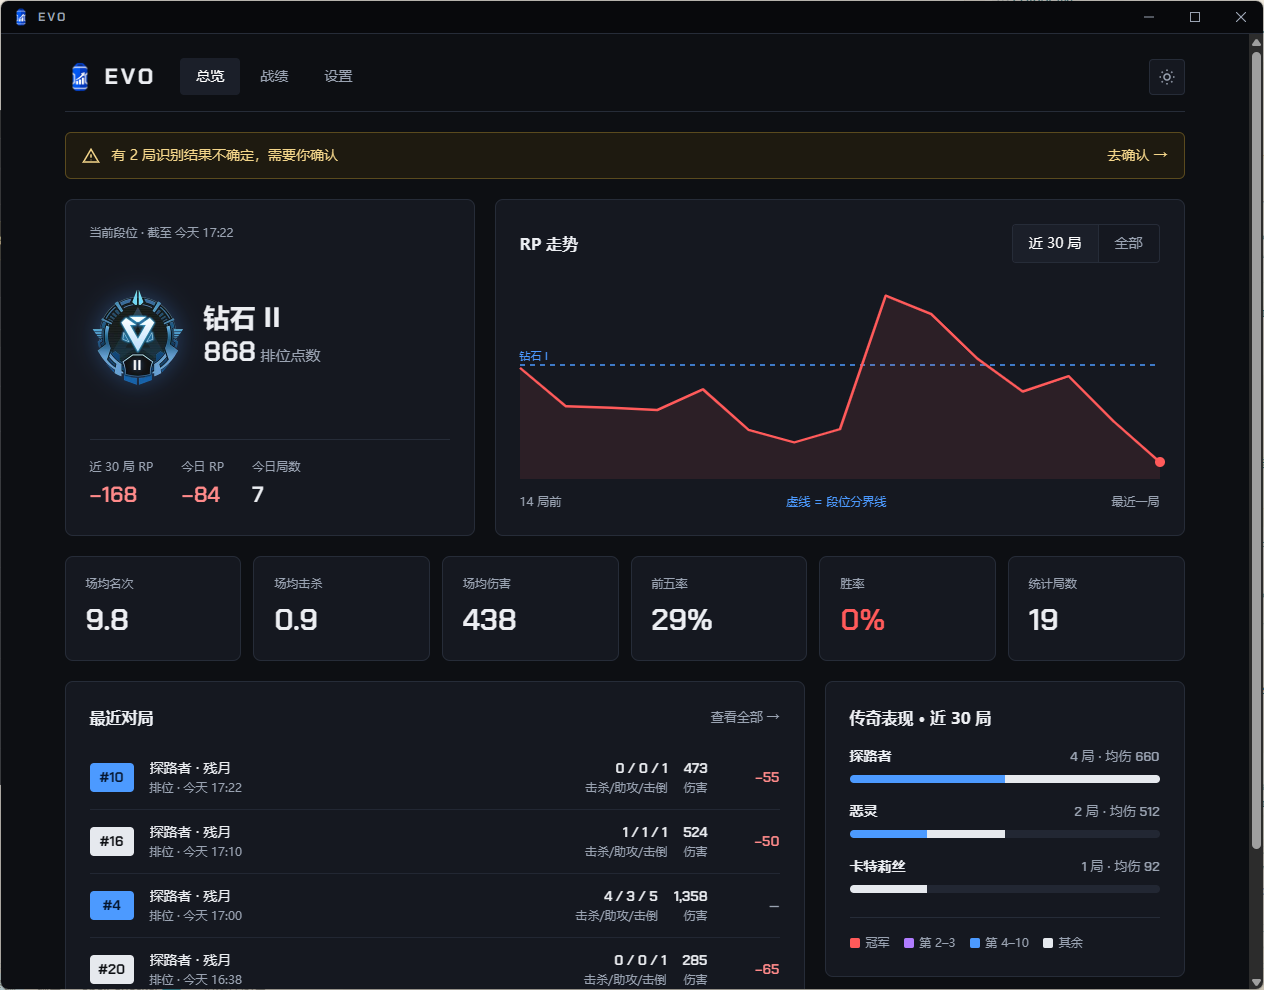
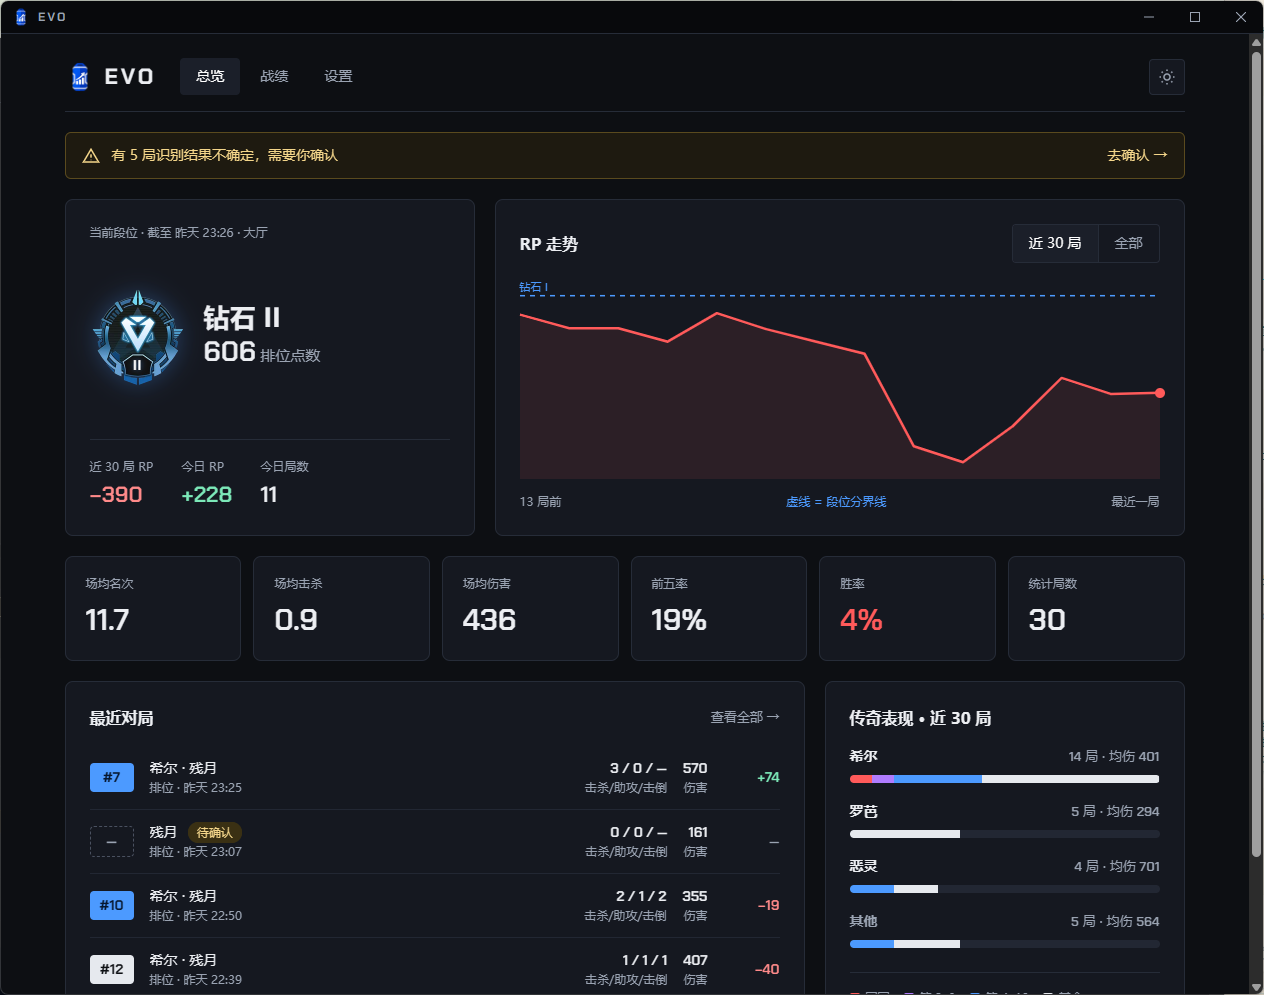
发布 0.3.1：版本号、更新内容、使用说明、隐私政策、README（截图识别完就删、大厅段位、队友传奇、老板分）
README 的总览截图换成用户新截的（0.3.x 的界面）。site/privacy.html 在本机同样改了，发布时随官网一起上传。

diff --git a/code/storage.py b/code/storage.py
@@ -17,7 +17,7 @@ from pathlib import Path
 
 from paths import DB_PATH
 
-APP_VERSION = "0.3.0"
+APP_VERSION = "0.3.1"
 SCHEMA_VERSION = 6  # 表结构变了就加 1，并在 MIGRATIONS 里写上怎么从旧版本升级
 
 # 列名和类型，顺序也是导出 CSV 时的列顺序

diff --git a/claude/todo.md b/claude/todo.md
@@ -16,8 +16,6 @@
   - [ ] **一致率脚本**：用 `readings` 表统计每个替代来源（对局中、淘汰画面、大厅校准）和总结页 / 经验值页一致几次、平均差多少（Stata 类比：拿有真实值的样本检验代理变量）
   - [ ] **"跳过总结页"的测试**：把测试截图里的总结页、经验值页拿掉重放（`tests/fake_game.py`），看名次、RP 还对不对
   - [ ] 读经验值页明细里的"参与"那一行，核对老板分（2026-10-18 讨论时说以后再做）
-- [ ] **识别完删截图**（原则 2；2026-10-17 用户决定）：识别完就删；待确认的局留着，确认后删；"保留全部截图"开关放设置页、默认关，用源码运行时永远保留全部；以前存下的截图不自动删，设置页加按钮手动删；能做到这些就先不压缩截图。起因：每局 30–40 MB，一晚约 400 MB，默认还存在 C 盘。第 1 步（记录程序）、第 2 步（战绩页确认或删除一局时删截图）、第 3 步（设置页开关和删除按钮）已完成，见 progress.md。剩下：
-  - [ ] 第 4 步：改文档——PRIVACY.md 和 `site/privacy.html`、`release/使用说明.txt`、README 里都写着"预览版保留全部截图"
 - [ ] **更改截图（数据）保存路径**：设置页里选一个文件夹。底子已经有了（`data_location.txt`），要做的是界面和"把已有数据搬过去"
 
 ## 二、性能：
@@ -45,7 +43,6 @@
 - [ ] **队友显示剩下的**（第一版 2026-10-17 已完成，见 progress.md）：
   - [ ] 导出 CSV 还没有队友（要单独一个文件，还是每局加几列？先问用户）
   - [ ] 双人模式的总结页长什么样（两张卡片在哪）还没见过：见到后核对 `config/summary.json` 的 `teammates.offsets`，必要时按模式分开
-  - [ ] 发下一个版本时上传 `site/privacy.html`（已在本机改好：0.2.0 之后的版本记录队友）
   - [ ] 以后可以做：常一起玩的队友（按 ID 合并，队友改名也认得出）、和某个队友一起时的胜率
 - [ ] **多语言设置**：分两种——面板用英文显示（较简单）；识别英文游戏界面（工作量大，所有识别规则要重新校准）
 - [ ] **开机自启**：设置页加开关；开机时用 `--background` 只进托盘、不弹窗口
